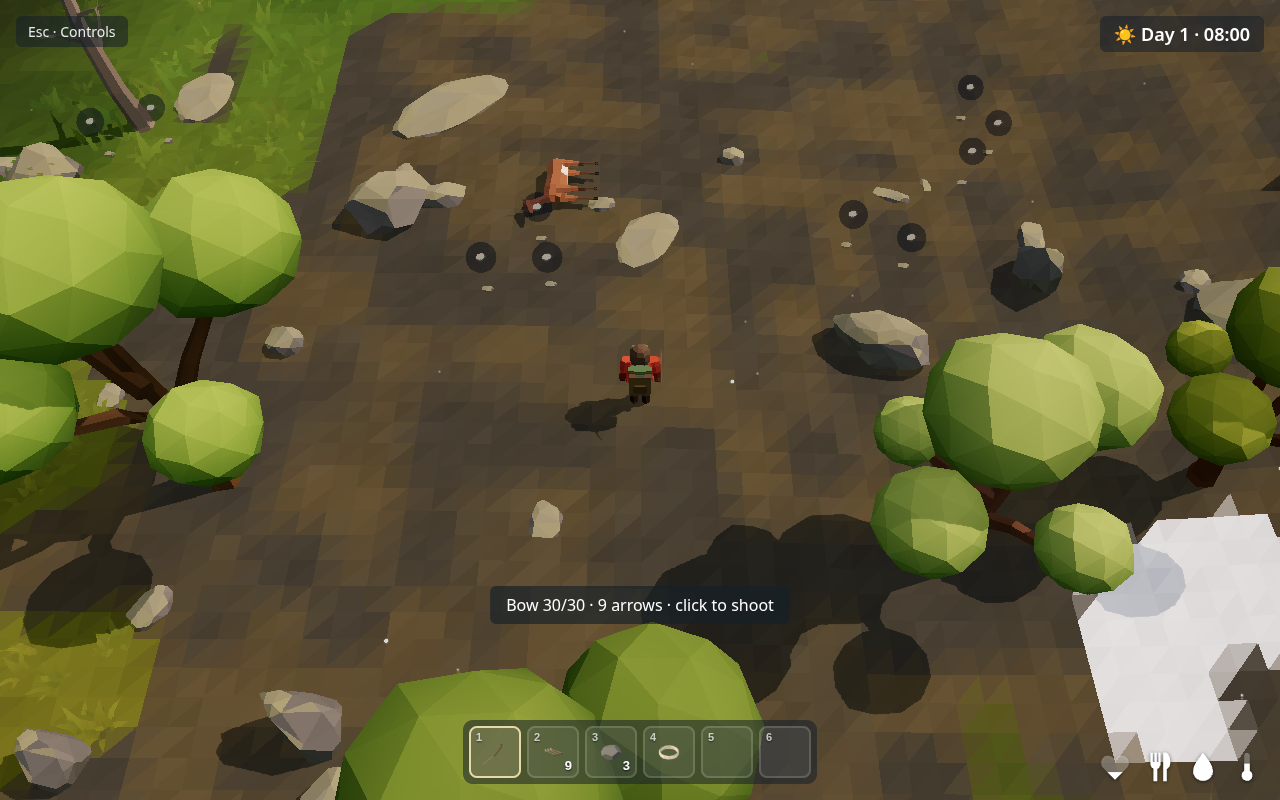
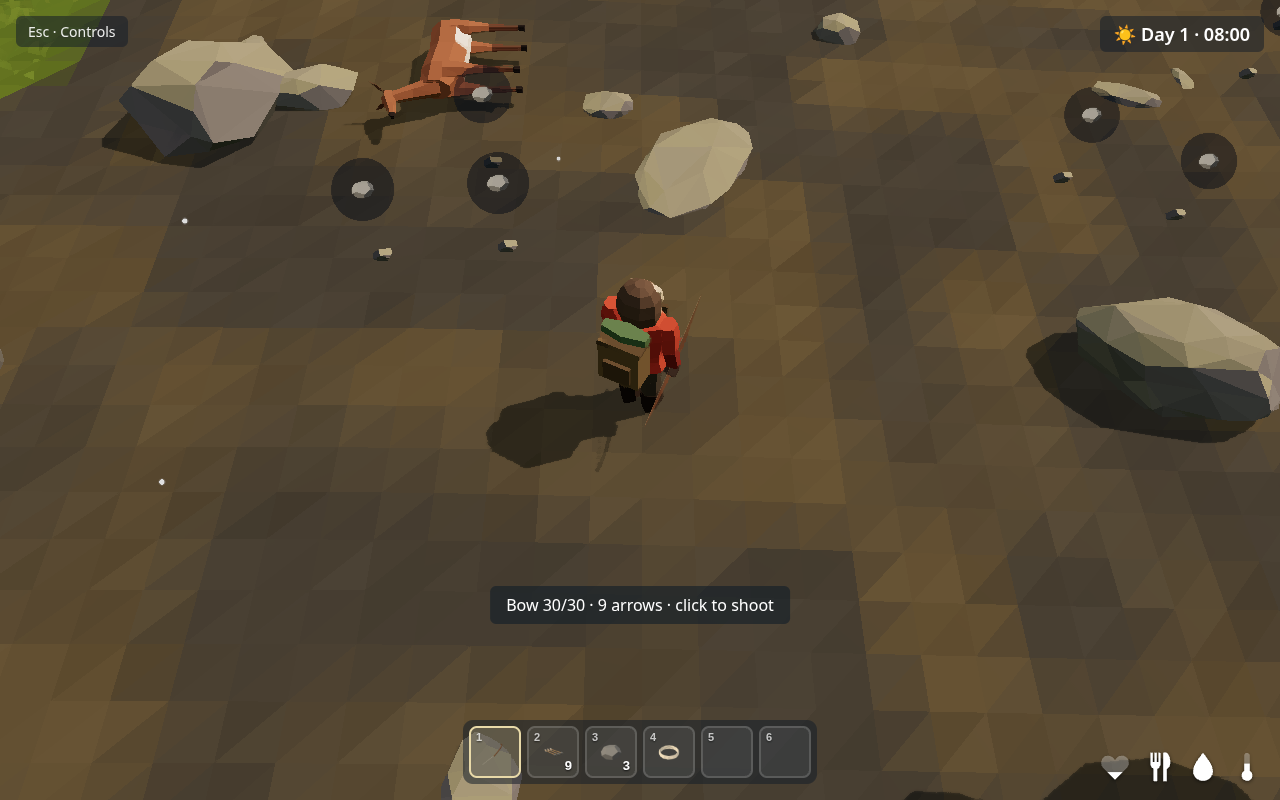
Wire in bow, arrow and stone models from #62; bow held in hand_R (#23)

diff --git a/survival/src/player.js b/survival/src/player.js
@@ -45,8 +45,15 @@ export class Player {
       this.axe.add(model);
     });
 
-    // The bow (a stand-in until bow.glb lands), shown in the left hand while it's selected.
-    this.bow = placeholders.bow();
+    // The bow, shown in the right hand while it's selected (stand-in until bow.glb loads).
+    this.bow = new THREE.Group();
+    this.bow.add(placeholders.bow());
+    loadModel('bow').then((model) => {
+      if (!model) return;
+      model.traverse((child) => (child.castShadow = true));
+      this.bow.clear();
+      this.bow.add(model);
+    });
     this.bow.position.set(-0.4, 1.0, 0.25);
     this.bow.scale.setScalar(0.8);
     this.bow.visible = false;
@@ -67,6 +74,11 @@ export class Player {
       model.getObjectByName('hand_R').add(this.axe);
       this.axe.position.set(0, 0.03, 0.02);
       this.axe.rotation.set(Math.PI / 2, 0, 0);
+      // bow.glb's origin is the grip, so it sits in the hand with its tips along the arm's up axis.
+      model.getObjectByName('hand_R').add(this.bow);
+      this.bow.position.set(0, 0.03, 0.02);
+      this.bow.rotation.set(0, 0, 0);
+      this.bow.scale.setScalar(1);
 
       this.mixer = new THREE.AnimationMixer(model);
       this.clips = Object.fromEntries(model.animations.map((clip) => [clip.name, this.mixer.clipAction(clip)]));

diff --git a/survival/src/arrows.js b/survival/src/arrows.js
@@ -1,4 +1,6 @@
+import * as THREE from 'three';
 import * as placeholders from './placeholders.js';
+import { loadModel } from './models.js';
 import { ARROW_RANGE, ARROW_SPEED, arrowHitTest, hitAnimal } from './hunting.js';
 
 const ARROW_HEIGHT = 1.1; // meters above the ground an arrow flies
@@ -12,11 +14,17 @@ export class Arrows {
     this.animals = animals;
     this.flying = [];
     this.onKill = () => {};
+    // arrow.glb points along +z from its nock, like the stand-in, so both turn the same way.
+    this.model = null;
+    loadModel('arrow').then((model) => (this.model = model));
   }
 
   fire(x, z, facing) {
-    const object = placeholders.arrow();
-    object.rotation.y = facing;
+    const object = new THREE.Group();
+    const shaft = this.model ? this.model.clone() : placeholders.arrow();
+    if (this.model) shaft.position.z = -0.35; // centre the shaft on the flight point (origin is at the nock)
+    object.add(shaft);
+    object.rotation.y = facing; // +z turned to the flight direction (sin, cos)
     this.scene.add(object);
     const arrow = { x, z, dx: Math.sin(facing), dz: Math.cos(facing), travelled: 0, object };
     this.place(arrow);

diff --git a/survival/src/pickups.js b/survival/src/pickups.js
@@ -10,7 +10,7 @@ const GROUND_MODELS = {
   wood: [placeholders.logPile, 'logs'],
   axe: [placeholders.axeOnGround, 'axe-ground'],
   backpack: [placeholders.backpack, 'backpack'],
-  stone: [placeholders.stone, 'rock-small', 0.45], // stand-in until stone.glb lands
+  stone: [placeholders.stone, 'stone', 2.5], // stone.glb is life-size (~10 cm): scaled up to be visible
 };
 
 // Items lying on the ground (e.g. logs that didn't fit in your inventory),
